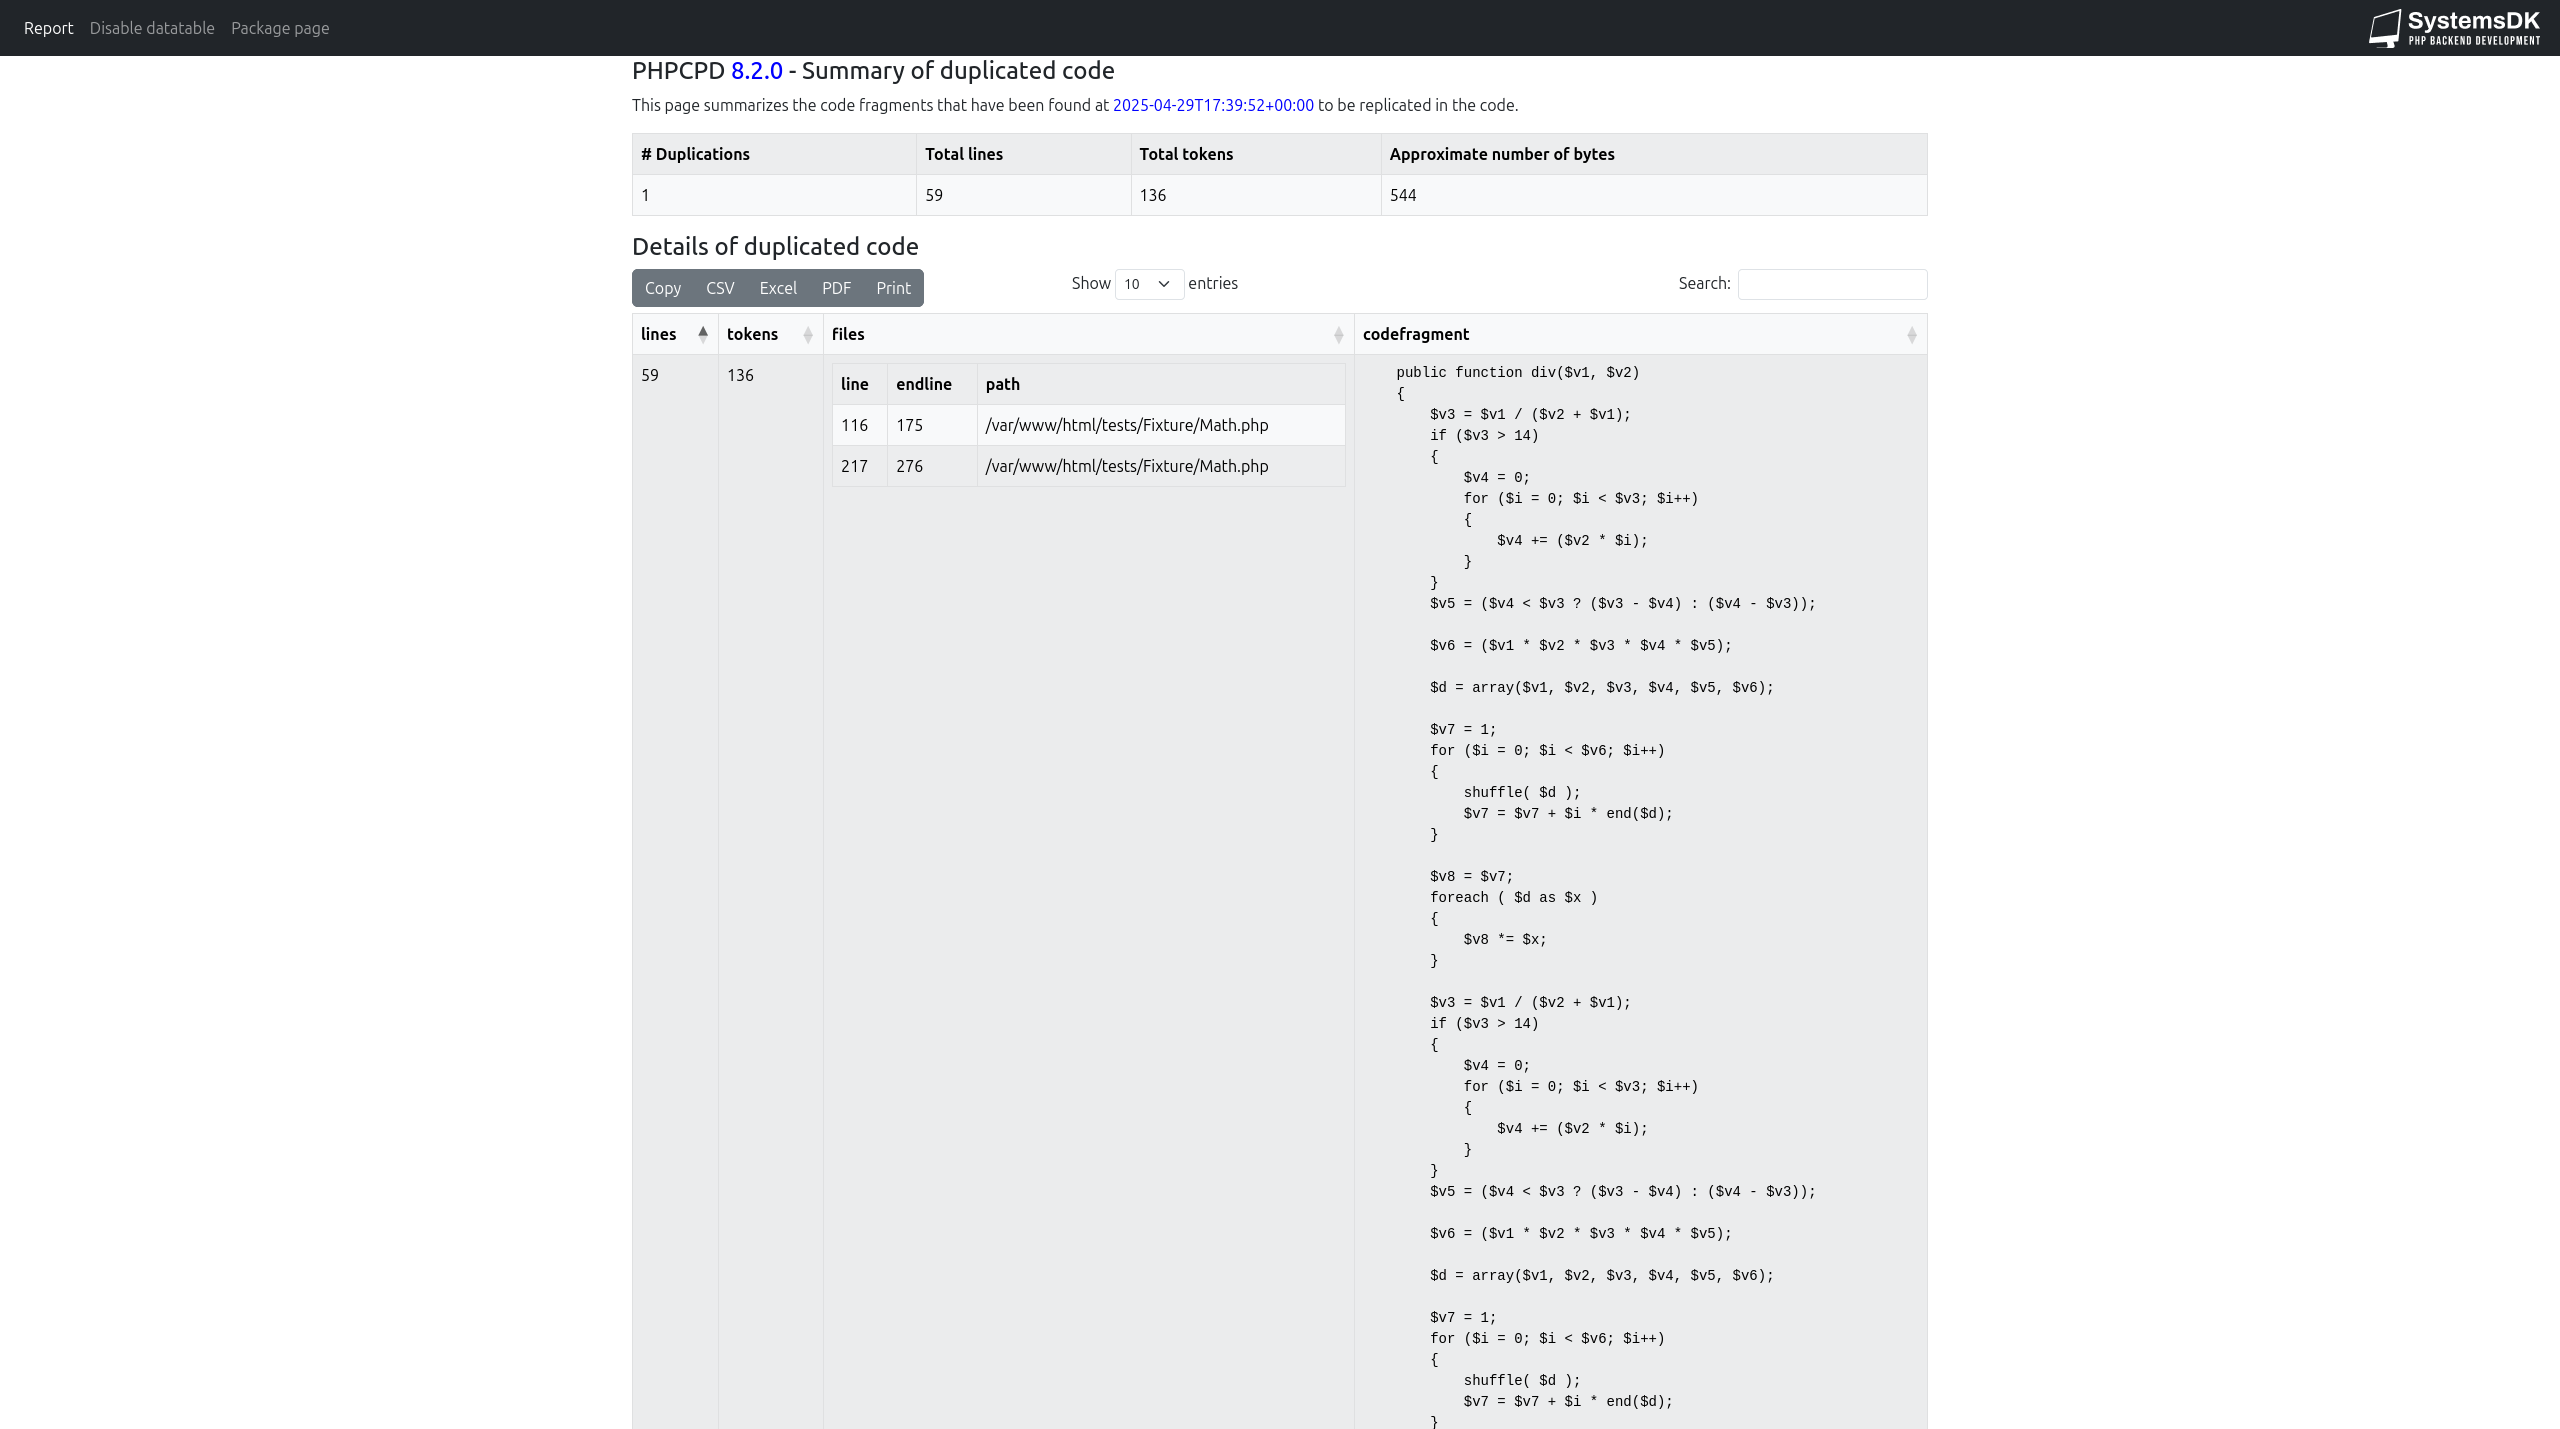
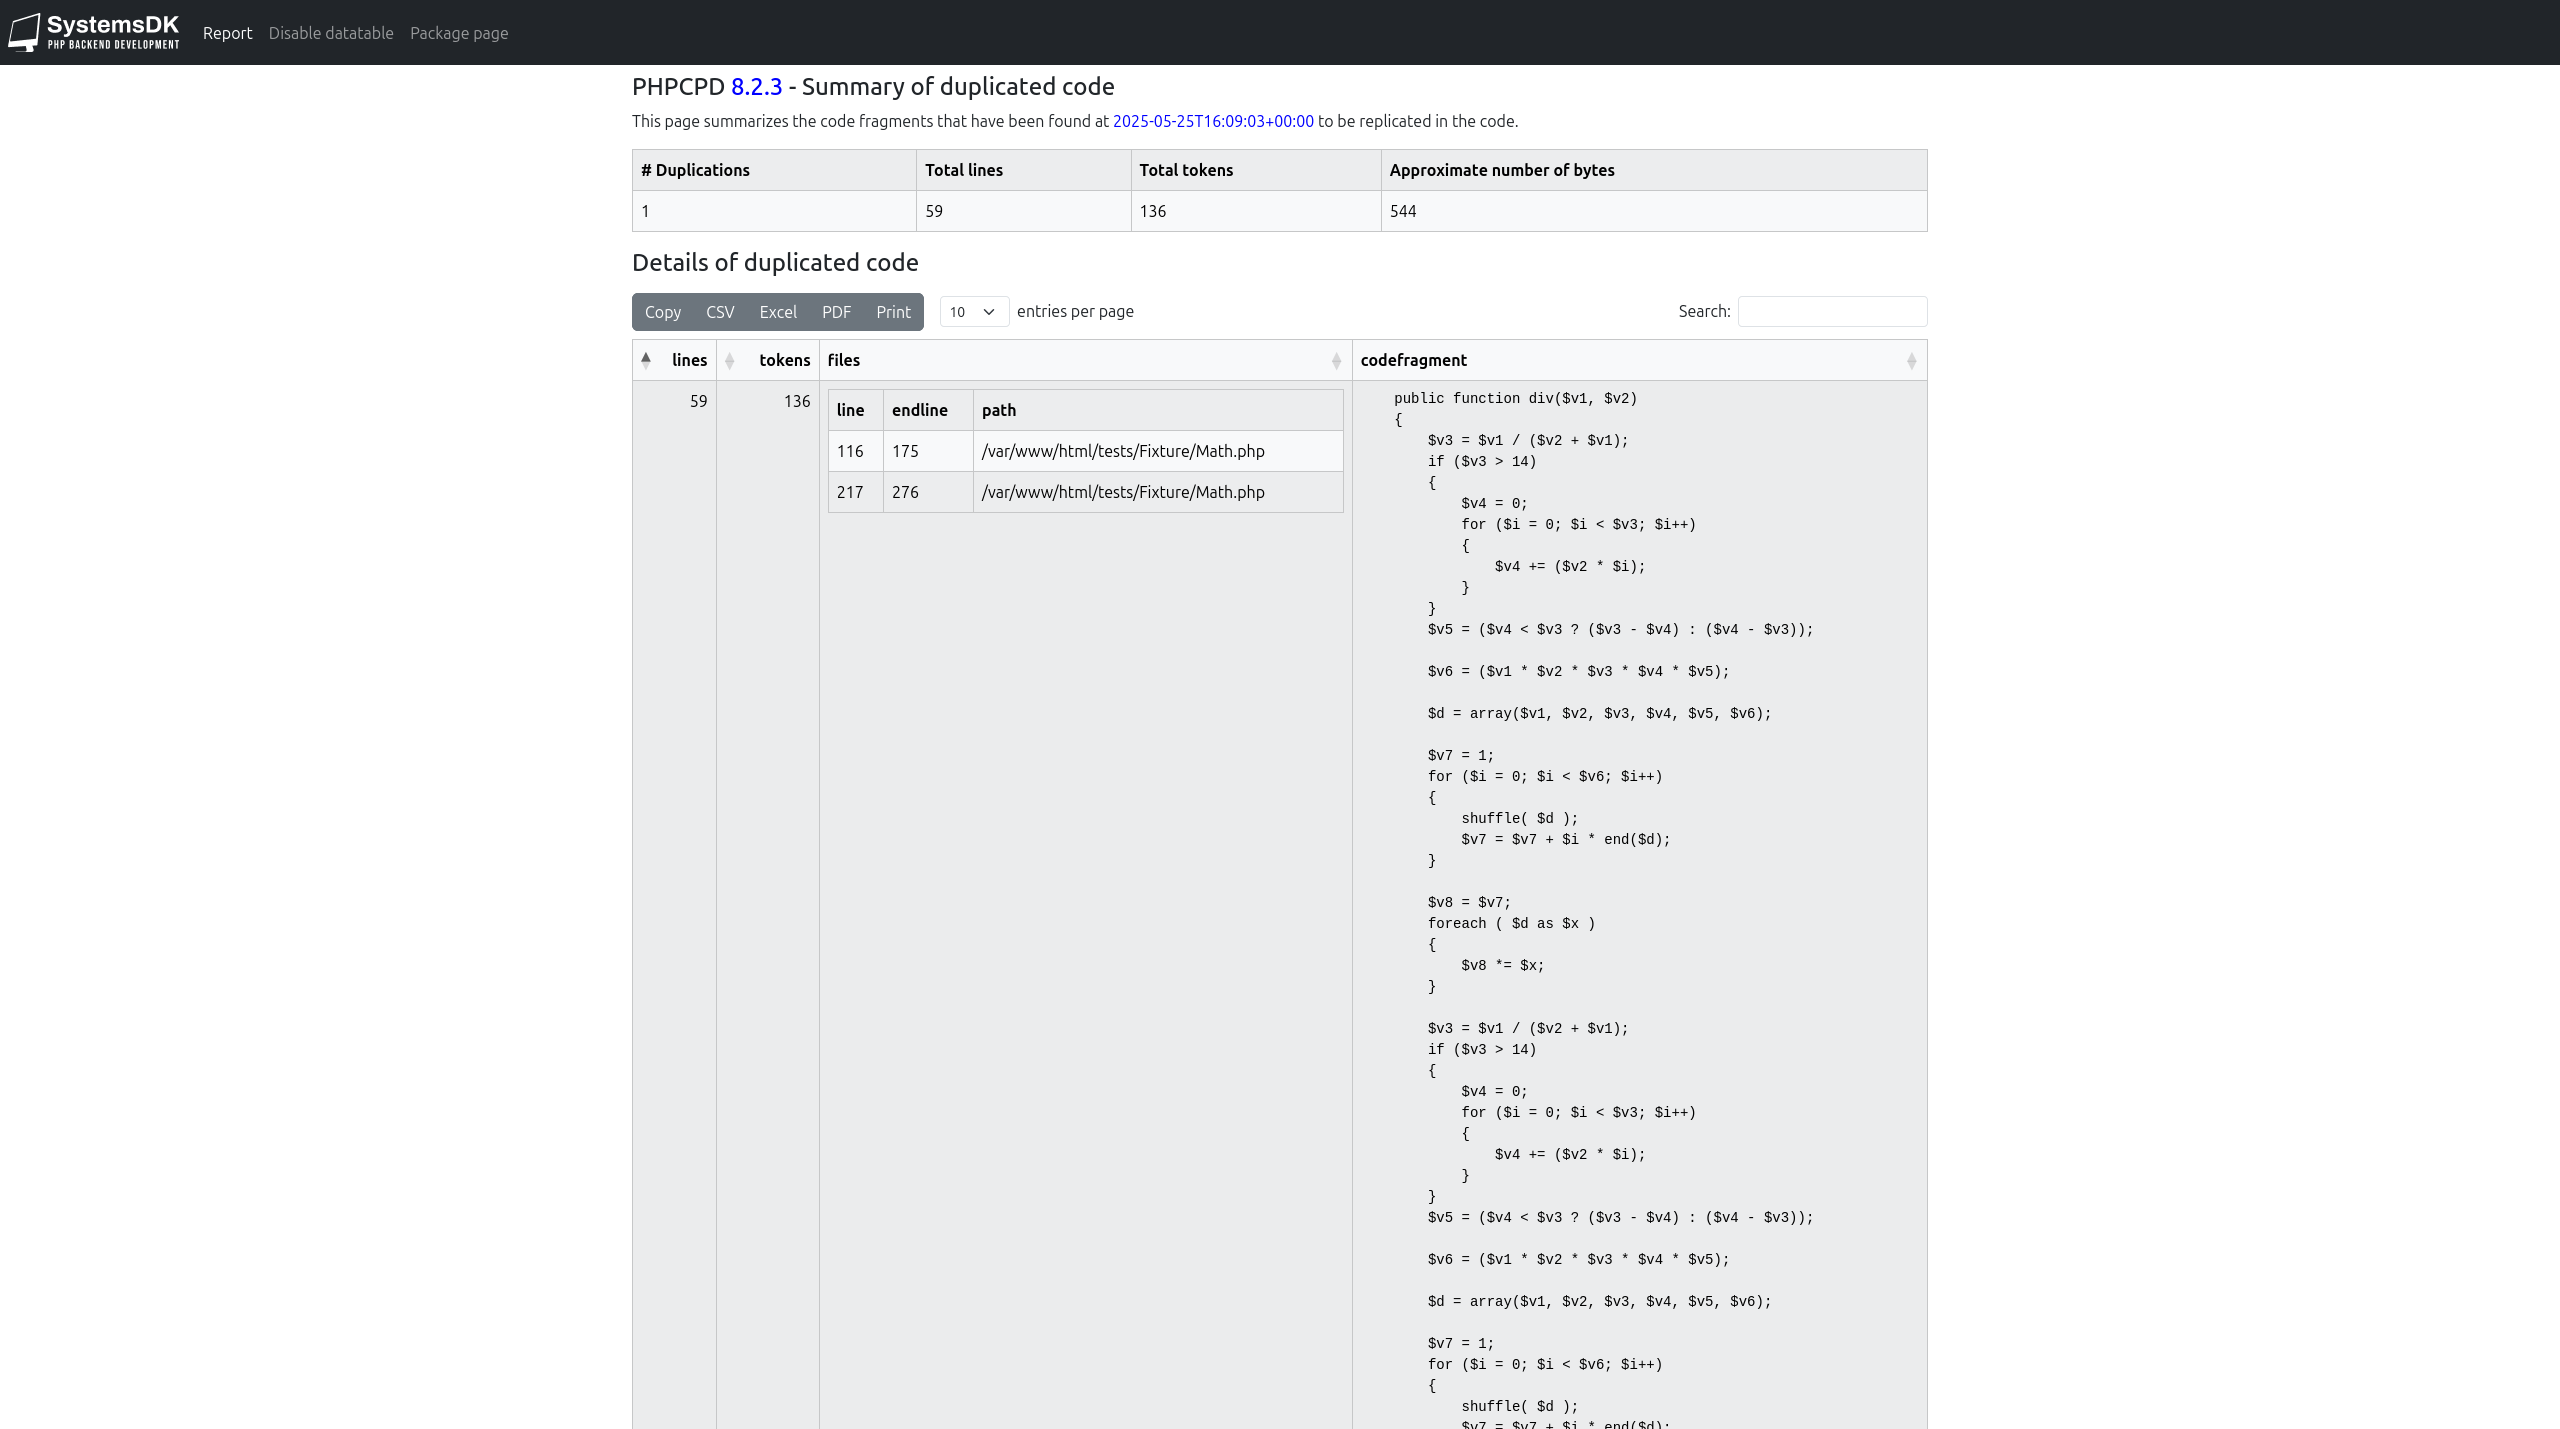
Improved html report and DataTables buttons, updated bootstrap and DataTables to the latest version.

diff --git a/src/Cli/Application.php b/src/Cli/Application.php
@@ -28,7 +28,7 @@ use const PHP_EOL;
 
 final class Application
 {
-    public const string VERSION = '8.2.2';
+    public const string VERSION = '8.2.3';
 
     /**
      * @param array<int, string> $argv

diff --git a/docs/report.md b/docs/report.md
@@ -36,7 +36,7 @@ This format uses `xml` to output the duplications in a more structured format. T
 Report file example:
 ```
 <?xml version="1.0" encoding="UTF-8"?>
-<pmd-cpd xmlns="https://systemsdk.github.io/phpcpd/report" xmlns:xsi="http://www.w3.org/2001/XMLSchema-instance" phpcpdVersion="8.2.1" timestamp="2025-04-29T17:39:52+00:00" version="1.0.0" xsi:schemaLocation="https://systemsdk.github.io/phpcpd/report https://systemsdk.github.io/phpcpd/report/phpcpd-report-v1_0_0.xsd">
+<pmd-cpd xmlns="https://systemsdk.github.io/phpcpd/report" xmlns:xsi="http://www.w3.org/2001/XMLSchema-instance" phpcpdVersion="8.2.3" timestamp="2025-05-25T16:09:03+00:00" version="1.0.0" xsi:schemaLocation="https://systemsdk.github.io/phpcpd/report https://systemsdk.github.io/phpcpd/report/phpcpd-report-v1_0_0.xsd">
   <duplication lines="59" tokens="136">
     <file line="116" endline="175" path="/var/www/html/tests/Fixture/Math.php"/>
     <file line="217" endline="276" path="/var/www/html/tests/Fixture/Math.php"/>

diff --git a/readme.md b/readme.md
@@ -29,7 +29,7 @@ Note: This tool is distributed as a [PHP Archive (PHAR)](https://php.net/phar).
 ## Usage example
 ```
 $ php ./vendor/bin/phpcpd --fuzzy --verbose src tests
-Copy/Paste Detector 8.2.2
+Copy/Paste Detector 8.2.3
 14/14 [==============================>] 100% Loading & Processing
 Found 1 code clones with 17 duplicated lines in 1 files:
 

diff --git a/ChangeLog.md b/ChangeLog.md
@@ -2,6 +2,12 @@
 
 All notable changes in PHPCPD are documented in this file using the [Keep a CHANGELOG](http://keepachangelog.com/) principles.
 
+## [8.2.3] - 2025-05-25
+
+### Updated
+
+* Improved html report and DataTables buttons, updated bootstrap and DataTables to the latest version.
+
 ## [8.2.2] - 2025-05-18
 
 ### Updated
